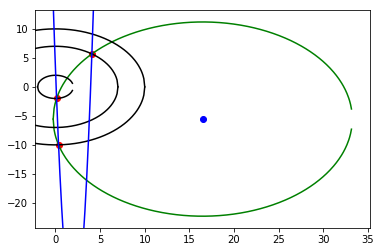
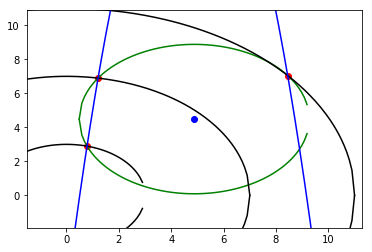
Add files via upload

diff --git a/demo/plottingpoints.md b/demo/plottingpoints.md
@@ -6,44 +6,20 @@ import numpy as np
 from math import sqrt, isnan
 from random import uniform, randint
 
-def gen_circle_points(rad_0, rad_1, rad_2, num_sets):
+def gen_circle_points(radii, num_sets):
         points_list = []
 
         for i in range(num_sets):
-                x0 = uniform(0, rad_0)
-                y0 = sqrt(rad_0**2 - x0**2)
-                x1 = uniform(0, rad_1)
-                y1 = sqrt(rad_1**2 - x1**2)
-                x2 = uniform(0, rad_2)
-                y2 = sqrt(rad_2**2 - x2**2)
-
-                a  = randint(0,1)
-                if a == 1:
-                        y0 = -y0
-
-                b  = randint(0,1)
-                if b == 1:
-                        y1 = -y1
-
-                c  = randint(0,1)
-                if c==1:
-                        y2 = -y2
-
-                points = [(x0, y0), (x1, y1), (x2, y2)]
-                points_list.append(points)
-
-        return points_list
-
-def gen_points(num_sets):
-
-        points_list = []
-
-        for i in range(num_sets):
-                point_set = []
-                for i in range(6):
-                        point_set.append(uniform(-10, 10))
-                points_list.append(point_set)
-
+            points = []
+            
+            for r in radii:
+                a = randint(0,1)
+                x = uniform(0,r)
+                y = sqrt(r**2 - x**2)
+                if a == 0: y = -y
+                points.append((x,y))
+                
+            points_list.append(points)
         return points_list
     
 def perpline(line, offset):
@@ -73,14 +49,12 @@ def center(points):
     y, g2, c2 = perpline(cb, b)
 
     #form and solve simultaneous equations
-    #print("y = {}x + {}".format(g1, c1))
-    #print("y = {}x + {}".format(g2, c2))
-    A = np.array([[y,-g1],[y,-g2]])      #y = 0x + c
+    A = np.array([[y,-g1],[y,-g2]])
     B = np.array([c1, c2])
     try:
         C = np.linalg.solve(A,B)
     except:
-        print("[INFO] No reasonable solution, or one or more linear equations were parallel to an axis.\n       Please use a different tracing method (parabola).")
+        print("[WARN] Lines do not converge, no real solution by this method.\n       Please use a different tracing method (parabola).")
         return "N/A", "N/A"
     #return solution
     if (isnan(C[0]) or isnan(C[1])): return "N/A", "N/A"
@@ -150,24 +124,27 @@ def plot_quadratic(a,b,c):
     return
 
 if __name__ == "__main__":
-    r_1, r_2, r_3 = 2, 7, 10
-    for i in range(5): #how many to show (in series)
-        points = gen_circle_points(r_1,r_2,r_3,1)[0]
-        print("Points: "+str(points))
+    print("="*40)
+    radii = (3, 7, 11)
+    acc = 2 #accuracy of output
+    for i in range(3): #how many to show (in series)
+        points = gen_circle_points(radii,1)[0]
+        rounded_points = [(round(point[0], acc), round(point[1],acc)) for point in points]
+        print("Points: "+str(rounded_points))
         cen, r = circle(points)
-        print("Center: "+str(cen))
-        print("Radius: "+str(r))
+        print("Center: ({},{})".format(round(cen[0],acc),round(cen[1],acc)))
+        print("Radius: "+str(round(r,acc)))
         a, b, c = quadratic(points)
-        print("Quadratic: {}x^2+{}x+{}".format(a,b,c))
-        plot(points, cen, r, a, b, c, (r_1, r_2, r_3))
+        print("Quadratic: {}x^2+{}x+{}".format(round(a,acc),round(b,acc),round(c,acc)))
+        plot(points, cen, r, a, b, c, radii)
         print("="*40)
-
 ```
 
-    Points: [(0.12941955705908725, -1.9958082518745706), (4.080168541318717, 5.6879016055513025), (0.3473730263614283, -9.993964777832494)]
-    Center: (16.49295218198515, -5.551942339310543)
-    Radius: 16.74548564882021
-    Quadratic: 10.35189260410158x^2+-41.6323296798235x+3.2188411994958024
+    ========================================
+    Points: [(0.78, 2.9), (1.2, 6.9), (8.45, 7.05)]
+    Center: (4.88,4.49)
+    Radius: 4.39
+    Quadratic: -1.24x^2+11.96x+-5.72
 
 
 
@@ -175,10 +152,10 @@ if __name__ == "__main__":
 
 
     ========================================
-    Points: [(1.6433011747171966, -1.139983003896585), (1.9365257964286404, -6.726802200136884), (1.0359656146589336, 9.946194008023589)]
-    Center: (-3636.5636450601446, -194.89265016578454)
-    Radius: 3643.3624414356505
-    Quadratic: -0.8874961521875869x^2+-15.875953073941808x+27.34561833284421
+    Points: [(0.53, -2.95), (3.71, 5.94), (7.73, -7.83)]
+    Center: (7.49,-0.43)
+    Radius: 7.4
+    Quadratic: -0.86x^2+6.46x+-6.12
 
 
 
@@ -186,36 +163,14 @@ if __name__ == "__main__":
 
 
     ========================================
-    Points: [(0.9244768569389681, -1.7735113591359506), (1.031138027428899, -6.923637365459722), (5.92319902678863, -8.0570288127231)]
-    Center: (4.2206099401954384, -4.281414624908717)
-    Radius: 4.141747468522376
-    Quadratic: 9.613104687854062x^2+-67.08444988230781x+52.02859839176591
+    Points: [(2.94, 0.58), (1.4, -6.86), (7.16, -8.35)]
+    Center: (5.27,-3.78)
+    Radius: 4.95
+    Quadratic: -1.2x^2+10.04x+-18.54
 
 
 
 ![png](output_0_5.png)
-
-
-    ========================================
-    Points: [(0.5005276048645946, -1.9363553694424256), (3.589592491281918, -6.009561194174869), (9.959920837789113, 0.8944142803948378)]
-    Center: (5.483003932441068, -1.3656675649513952)
-    Radius: 5.015052833725158
-    Quadratic: 0.25396548259908575x^2+-2.3573379502765337x+-0.8200680861035121
-
-
-
-![png](output_0_7.png)
-
-
-    ========================================
-    Points: [(0.4842263448002606, -1.9404960311738284), (1.0937498106269727, 6.914022805267095), (0.5520273534753994, 9.984751664463916)]
-    Center: (-23.49881013674431, 4.158676137861525)
-    Radius: 24.74643287471213
-    Quadratic: -297.8629316524044x^2+484.5475568906118x+-166.72973191439578
-
-
-
-![png](output_0_9.png)
 
 
     ========================================
